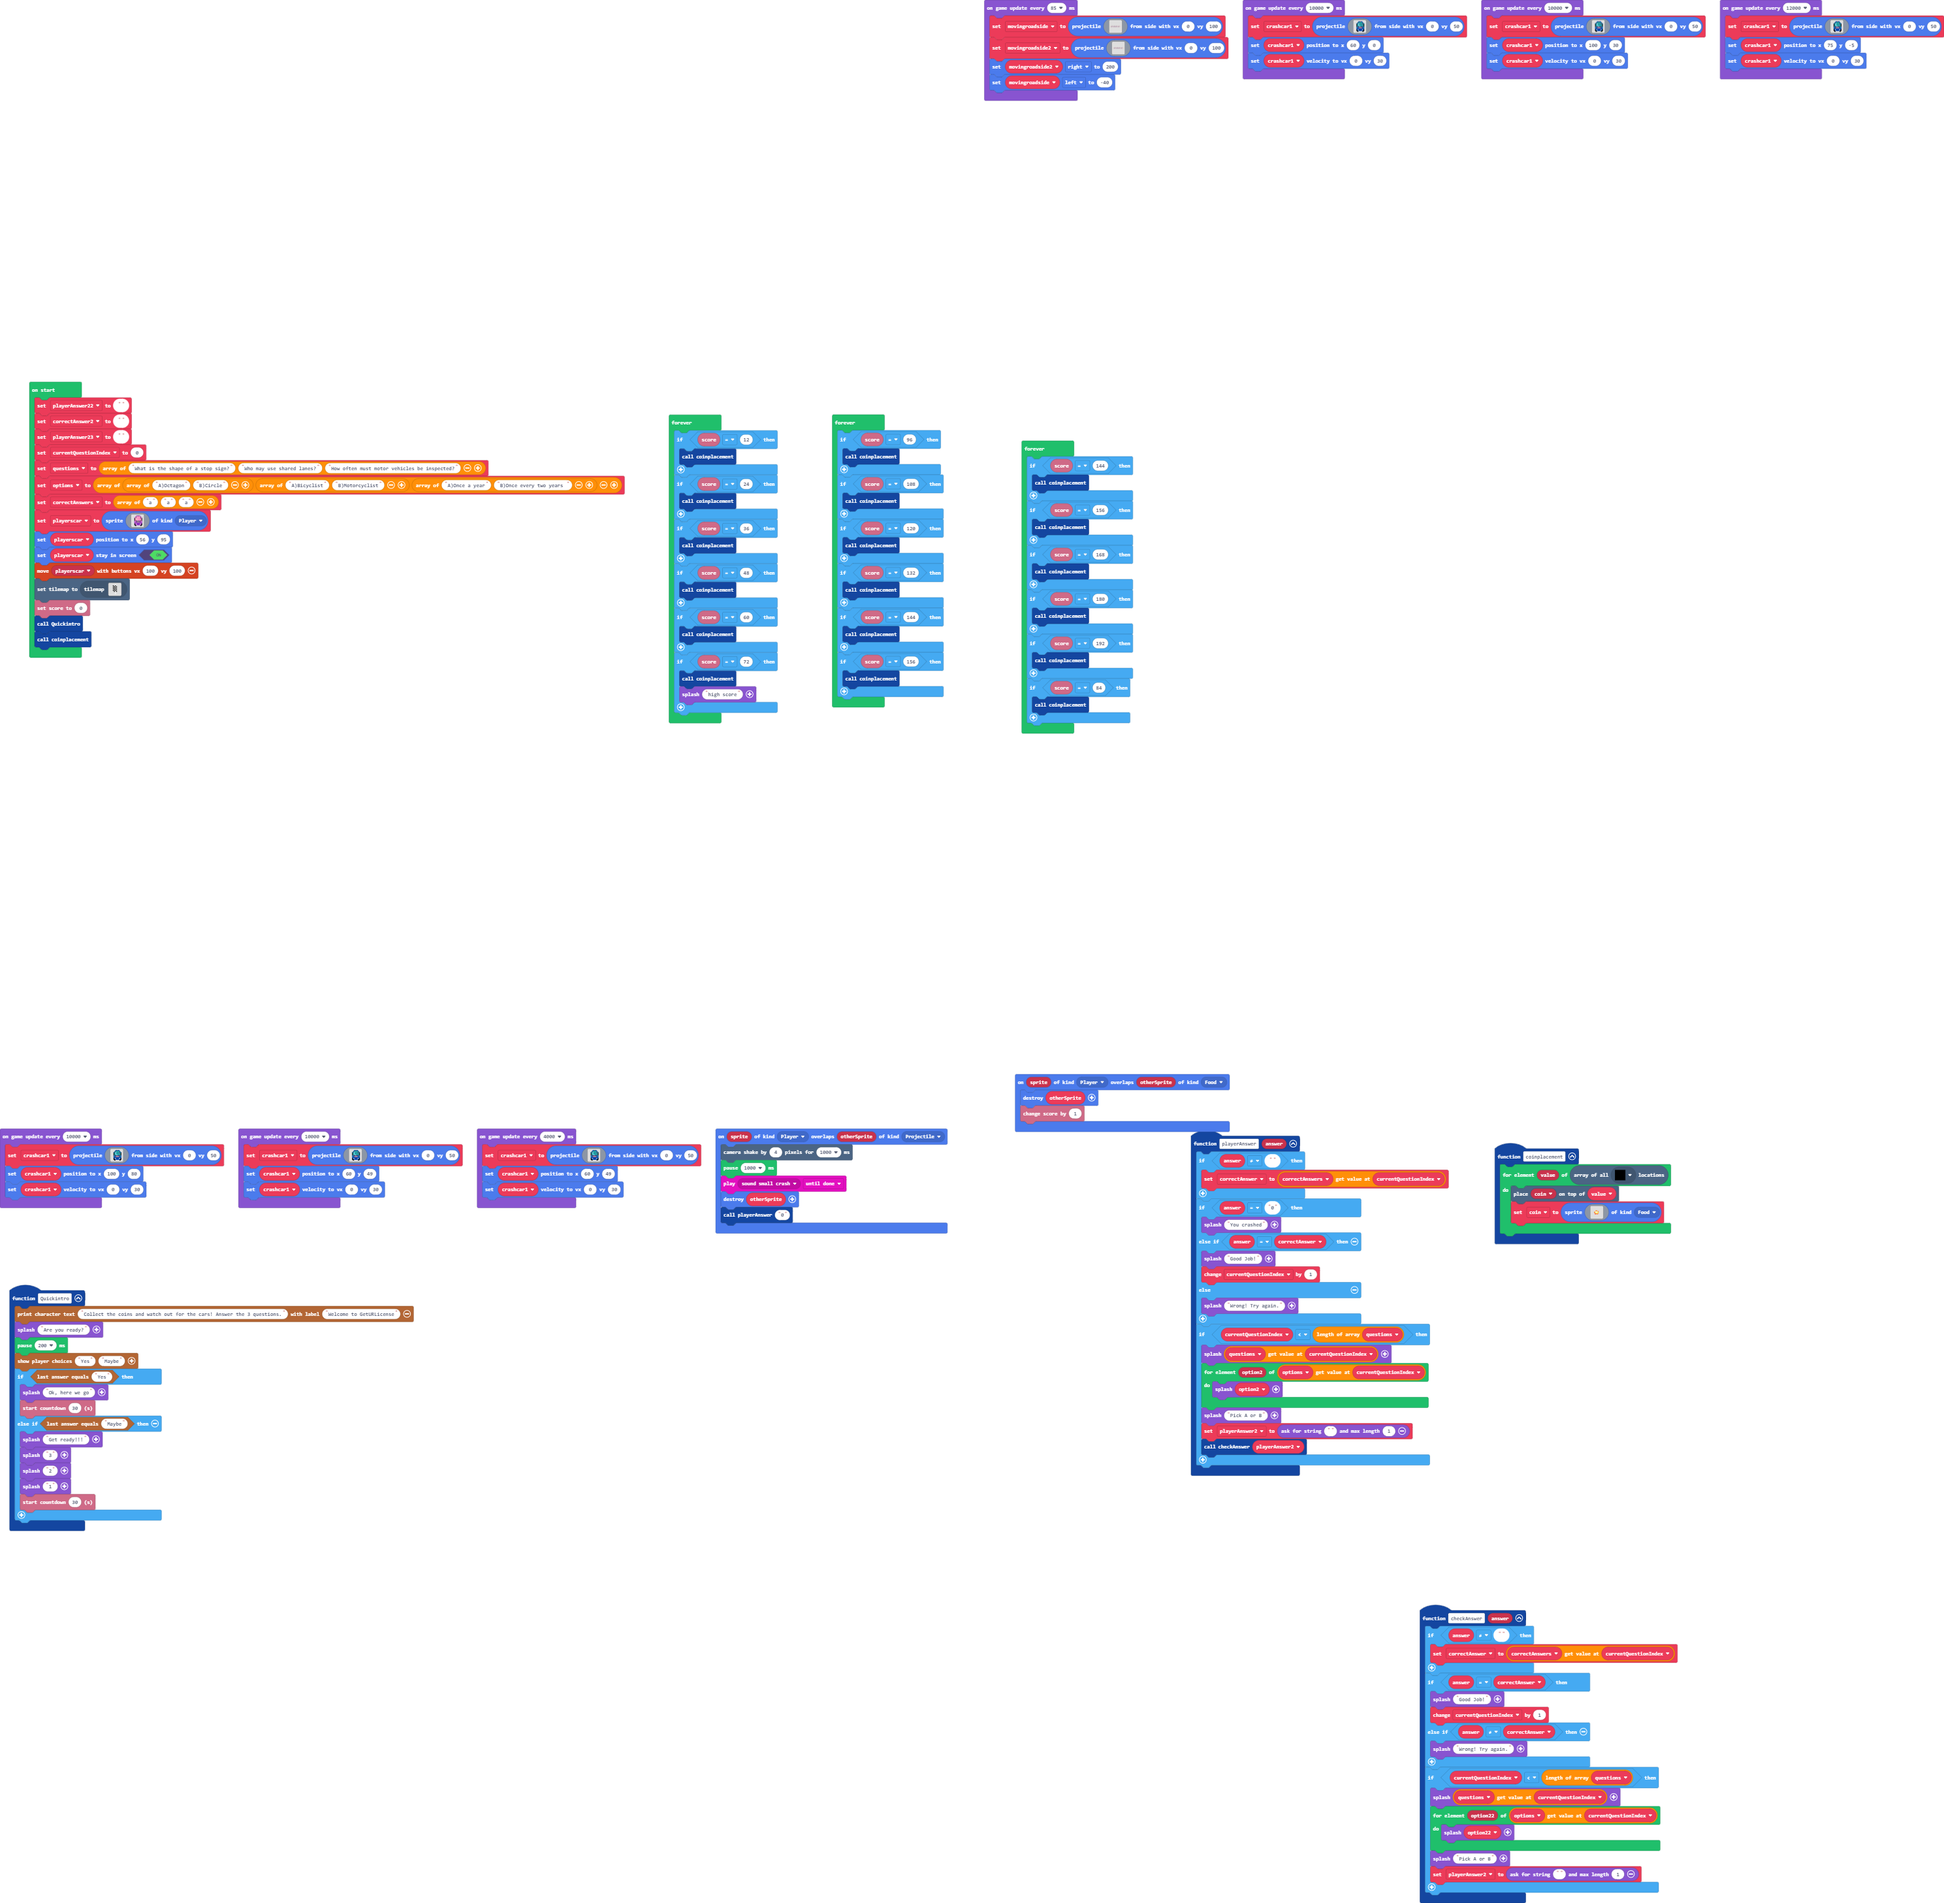
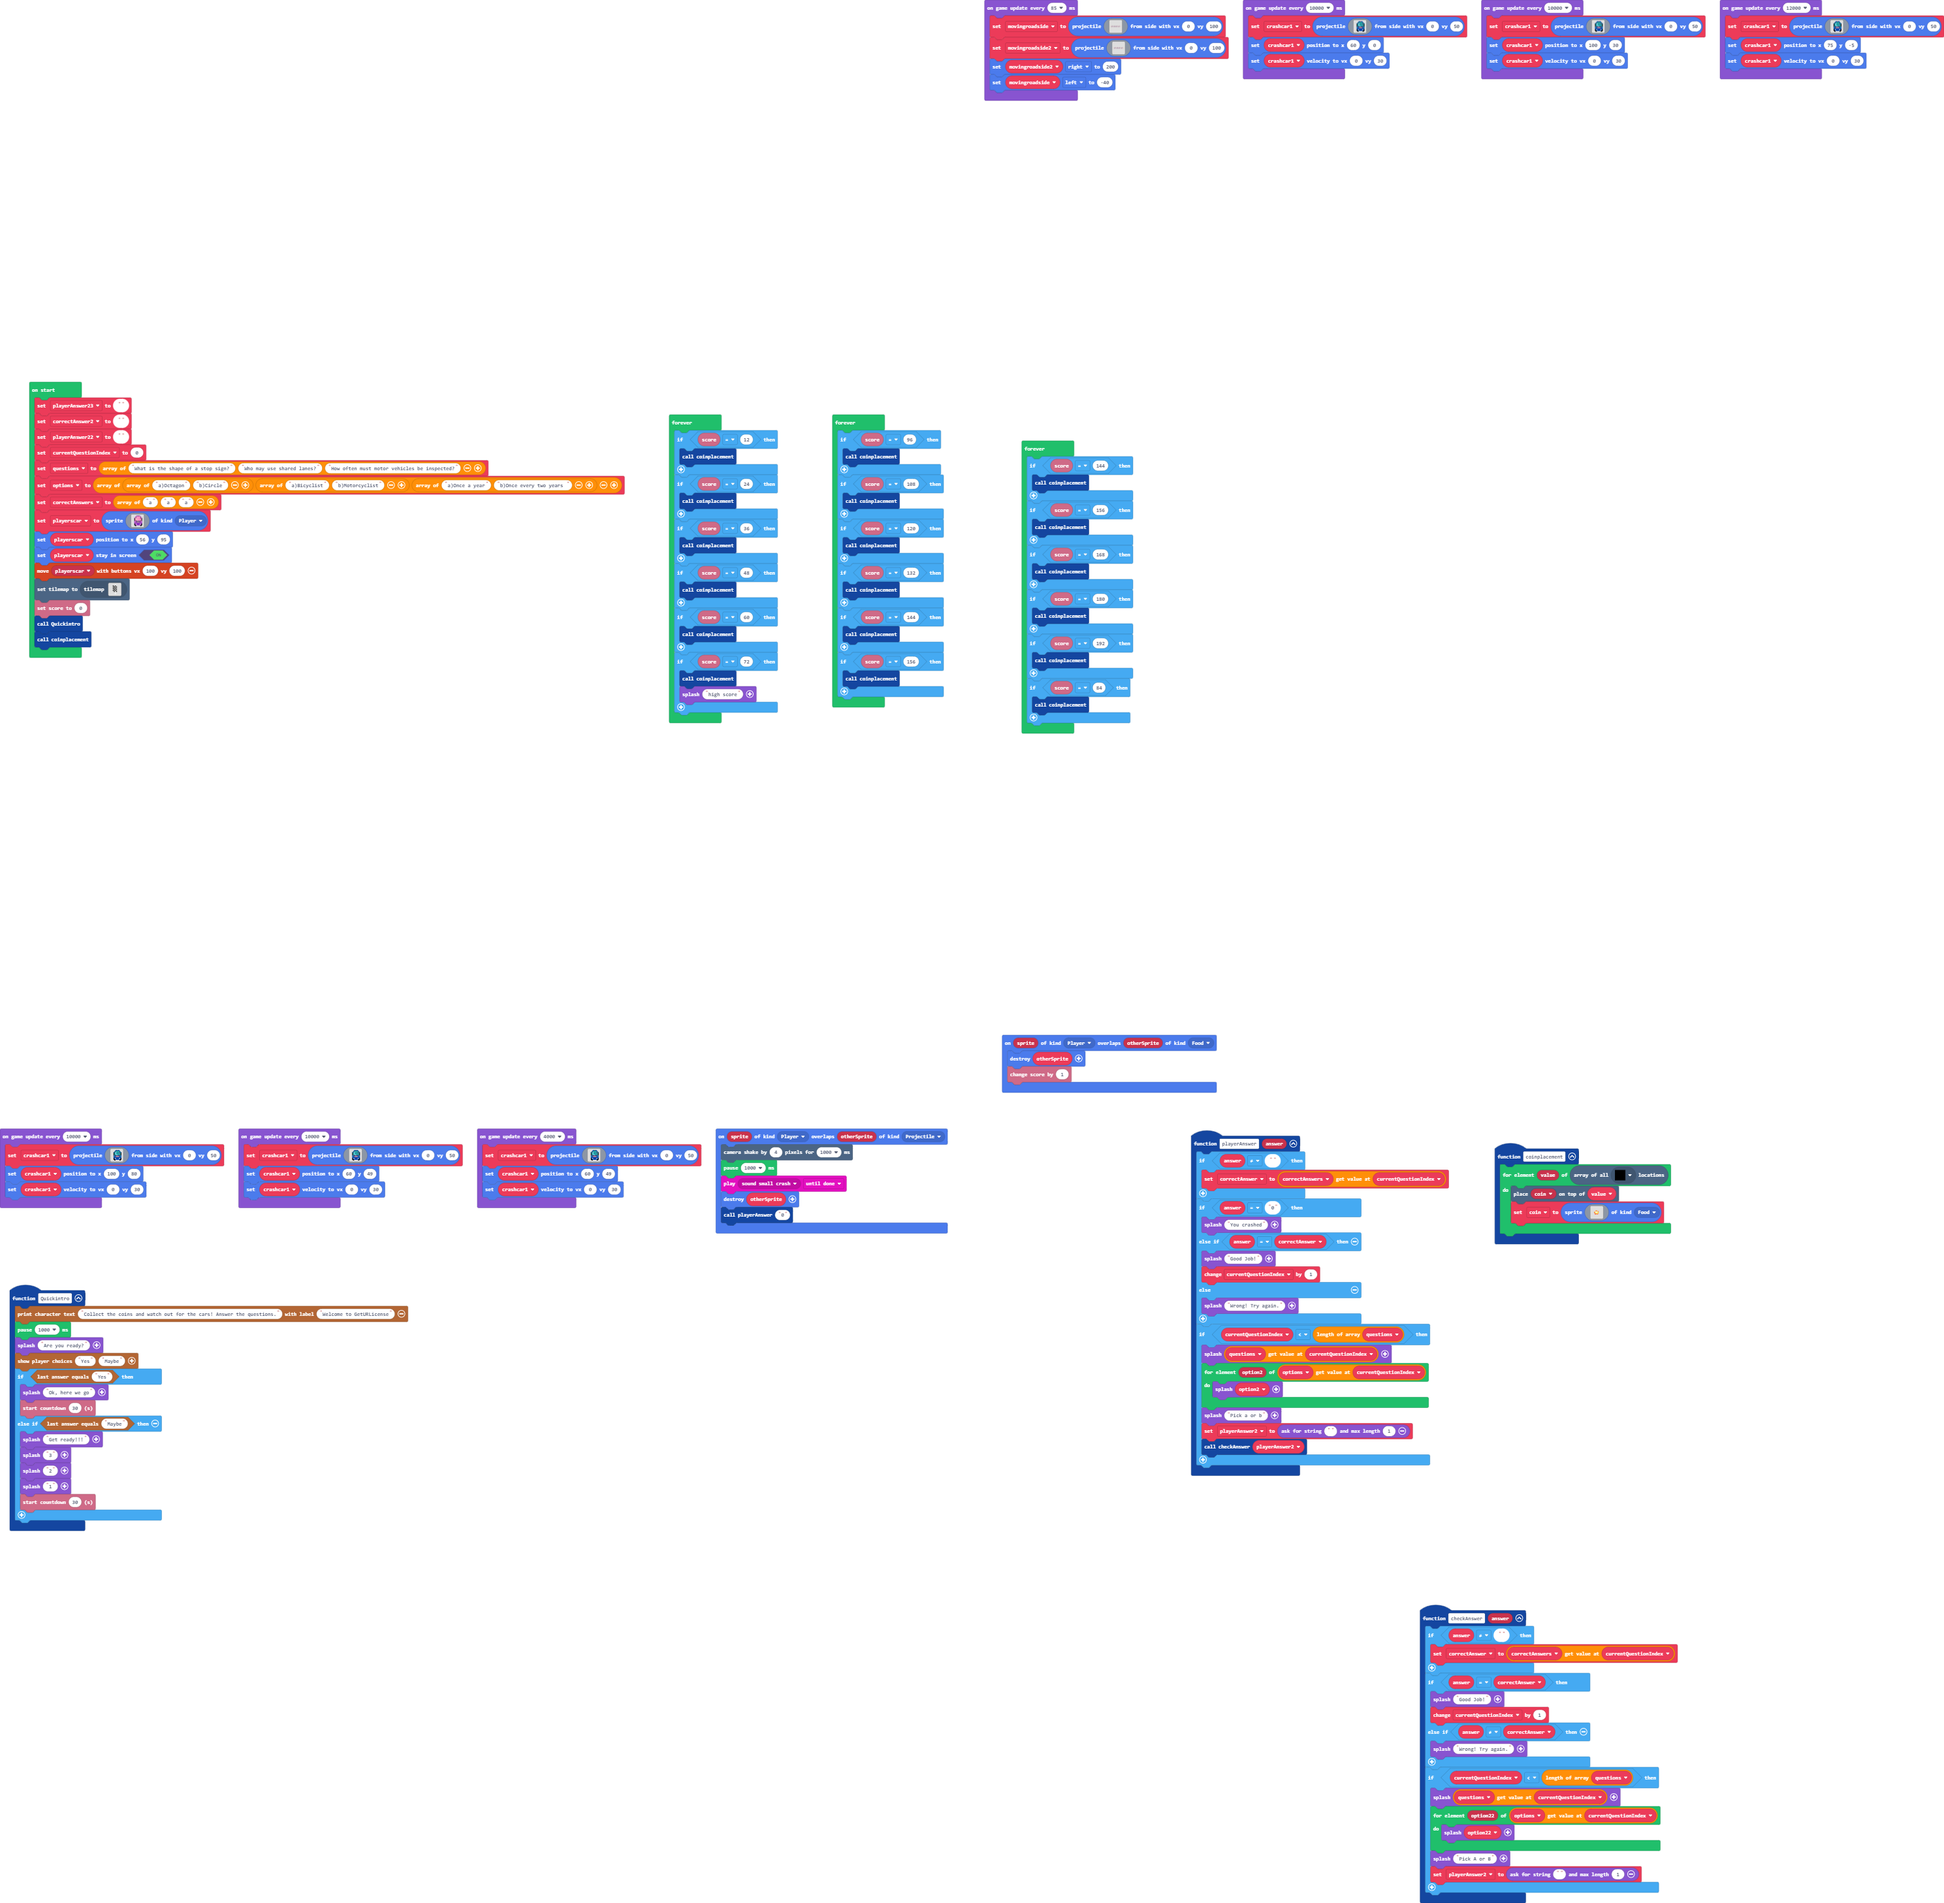
Update main.blocks, main.ts

Changed region(s): [[0.4998, 0.5309, 0.656, 0.5933], [0.0, 0.687, 0.0625, 0.7183]]

diff --git a/main.ts b/main.ts
@@ -44,7 +44,7 @@ function playerAnswer (answer: string) {
         for (let option2 of options[currentQuestionIndex]) {
             game.splash(option2)
         }
-        game.splash("Pick A or B")
+        game.splash("Pick a or b")
         playerAnswer2 = game.askForString("", 1)
         checkAnswer(playerAnswer2)
     }
@@ -77,9 +77,9 @@ sprites.onOverlap(SpriteKind.Player, SpriteKind.Food, function (sprite, otherSpr
     info.changeScoreBy(1)
 })
 function Quickintro () {
-    story.printCharacterText("Collect the coins and watch out for the cars! Answer the 3 questions.", "Welcome to GetURLicense")
+    story.printCharacterText("Collect the coins and watch out for the cars! Answer the questions.", "Welcome to GetURLicense")
+    pause(1000)
     game.splash("Are you ready?")
-    pause(200)
     story.showPlayerChoices("Yes", "Maybe")
     if (story.checkLastAnswer("Yes")) {
         game.splash("Ok, here we go")
@@ -102,12 +102,12 @@ let correctAnswers: string[] = []
 let options: string[][] = []
 let questions: string[] = []
 let currentQuestionIndex = 0
-let playerAnswer22 = ""
-let correctAnswer2 = ""
 let playerAnswer23 = ""
+let correctAnswer2 = ""
+let playerAnswer22 = ""
 currentQuestionIndex = 0
 questions = ["What is the shape of a stop sign?", "Who may use shared lanes?", "How often must motor vehicles be inspected?"]
-options = [["A)Octagon", "B)Circle"], ["A)Bicyclist", "B)Motorcyclist"], ["A)Once a year", "B)Once every two years "]]
+options = [["a)Octagon", "b)Circle"], ["a)Bicyclist", "b)Motorcyclist"], ["a)Once a year", "b)Once every two years "]]
 correctAnswers = ["a", "a", "a"]
 let playerscar = sprites.create(img`
     . . . . . . a a c c a a . . . . 
